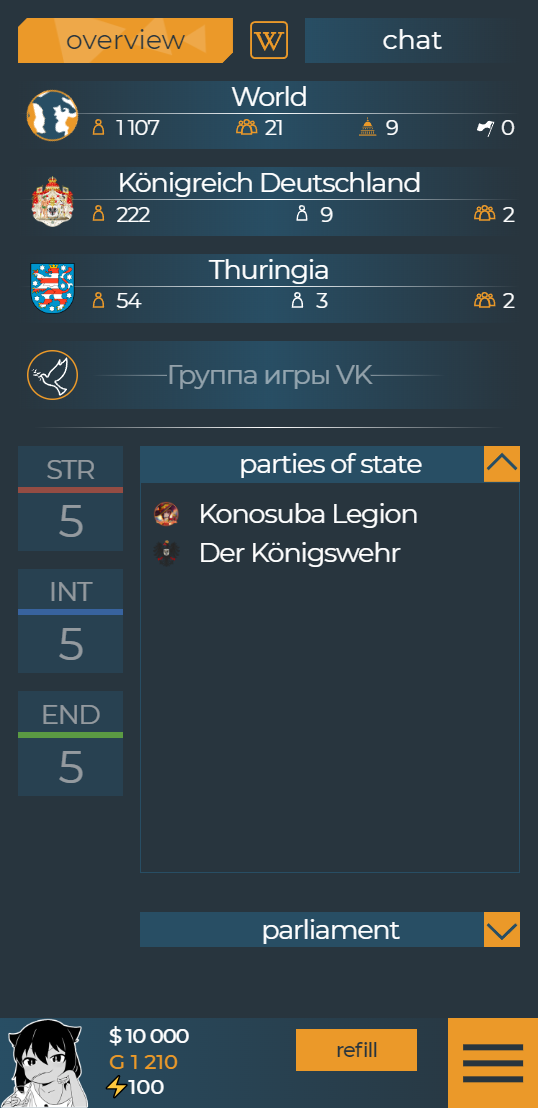
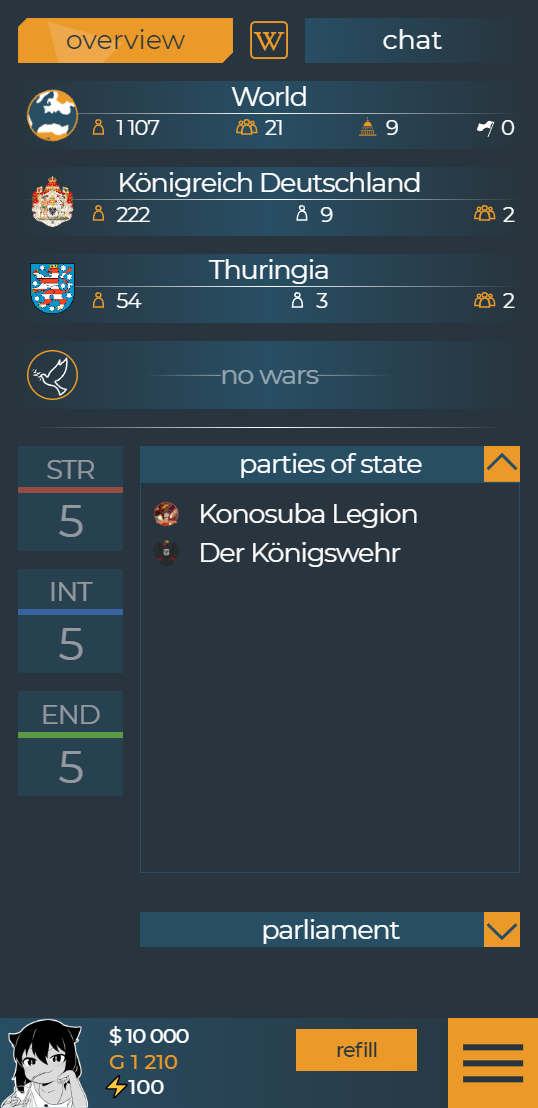
Revert "ссылка на группу игры вместо сообщения о мире"

diff --git a/player/templates/player/redesign/overview.html b/player/templates/player/redesign/overview.html
@@ -227,8 +227,7 @@
             </div>
             {% else %}
             <!--сообщение что войн нет-->
-<!--            <p class="overview__war-no">{% trans 'войн нет' %}</p>-->
-            <p class="overview__war-no" style="cursor: pointer" onclick="window.location.href = 'https://vk.com/wild_politics'">Группа игры VK</p>
+            <p class="overview__war-no">{% trans 'войн нет' %}</p>
             <!--иконка мира-->
             <svg class="overview__war-icon" width="34" height="34" viewBox="0 0 34 34" fill="none" xmlns="http://www.w3.org/2000/svg">
               <mask id="path-1-inside-1_758_442" fill="var(--c10one)">
